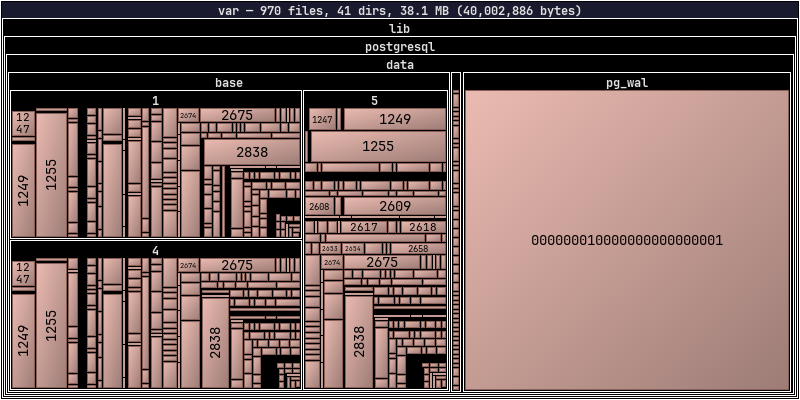
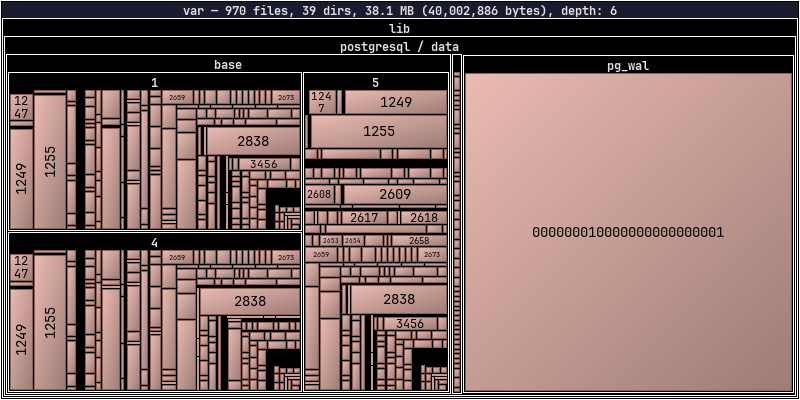
feat: show tree depth in root label, fix depth invariance with breadcrumbs
- scanner: add max_depth() to compute the maximum depth of a node tree
- render/svg_render: include "depth: N" in the root directory label
- main: capture tree depth before apply_breadcrumbs() so the displayed
  depth is the same whether or not breadcrumbs mode is active
- docs: regenerate example images

Changed region(s): [[0.0, 0.09, 1.0, 0.99], [0.2188, 0.0, 0.75, 0.06], [0.6562, 0.57, 0.9062, 0.63]]

diff --git a/src/dirplot/svg_render.py b/src/dirplot/svg_render.py
@@ -9,7 +9,7 @@ import squarify
 
 from dirplot.colors import RGBAColor, assign_colors
 from dirplot.render import _human_bytes, build_metadata
-from dirplot.scanner import Node, collect_extensions, count_nodes
+from dirplot.scanner import Node, collect_extensions, count_nodes, max_depth
 
 _CHAR_ASPECT = 0.6  # approximate width/height ratio for monospace font
 _FONT_FAMILY = "JetBrains Mono, Consolas, monospace"
@@ -556,6 +556,7 @@ def create_treemap_svg(
     colormap: str = "tab20",
     legend: int | None = None,
     cushion: bool = True,
+    tree_depth: int | None = None,
 ) -> io.BytesIO:
     """Render a nested squarified treemap and return it as SVG in a BytesIO buffer.
 
@@ -619,9 +620,10 @@ def create_treemap_svg(
     # 4. Treemap tiles
     n_files, n_dirs = count_nodes(root_node)
     total_bytes = root_node.original_size if root_node.original_size > 0 else root_node.size
+    depth = tree_depth if tree_depth is not None else max_depth(root_node)
     root_label = (
         f"{root_node.name} \u2014 {n_files:,} files, {n_dirs:,} dirs,"
-        f" {_human_bytes(total_bytes)} ({total_bytes:,} bytes)"
+        f" {_human_bytes(total_bytes)} ({total_bytes:,} bytes), depth: {depth}"
     )
     _draw_node_svg(
         d,

diff --git a/src/dirplot/render.py b/src/dirplot/render.py
@@ -14,7 +14,7 @@ import squarify
 from PIL import Image, ImageDraw, ImageFont, PngImagePlugin
 
 from dirplot.colors import RGBAColor, assign_colors
-from dirplot.scanner import Node, collect_extensions, count_nodes
+from dirplot.scanner import Node, collect_extensions, count_nodes, max_depth
 
 DIRPLOT_URL = "https://github.com/deeplook/dirplot"
 
@@ -467,6 +467,7 @@ def create_treemap(
     colormap: str = "tab20",
     legend: int | None = None,
     cushion: bool = True,
+    tree_depth: int | None = None,
 ) -> io.BytesIO:
     """Render a nested squarified treemap and return it as a PNG in a BytesIO buffer.
 
@@ -490,9 +491,10 @@ def create_treemap(
 
     n_files, n_dirs = count_nodes(root_node)
     total_bytes = root_node.original_size if root_node.original_size > 0 else root_node.size
+    depth = tree_depth if tree_depth is not None else max_depth(root_node)
     root_label = (
         f"{root_node.name} \u2014 {n_files:,} files, {n_dirs:,} dirs,"
-        f" {_human_bytes(total_bytes)} ({total_bytes:,} bytes)"
+        f" {_human_bytes(total_bytes)} ({total_bytes:,} bytes), depth: {depth}"
     )
     draw_node(
         idraw,

diff --git a/src/dirplot/main.py b/src/dirplot/main.py
@@ -24,6 +24,7 @@ from dirplot.scanner import (
     build_tree,
     build_tree_multi,
     collect_extensions,
+    max_depth,
     prune_to_subtrees,
 )
 from dirplot.ssh import build_tree_ssh, connect, is_ssh_path, parse_ssh_path
@@ -569,6 +570,8 @@ def main(
     if subtrees:
         root_node = prune_to_subtrees(root_node, set(subtrees))
 
+    tree_depth = max_depth(root_node)
+
     if breadcrumbs:
         root_node = apply_breadcrumbs(root_node)
 
@@ -615,10 +618,12 @@ def main(
     t_render_start = time.monotonic()
     if use_svg:
         buf = create_treemap_svg(
-            root_node, width_px, height_px, font_size, colormap, legend, cushion
+            root_node, width_px, height_px, font_size, colormap, legend, cushion, tree_depth
         )
     else:
-        buf = create_treemap(root_node, width_px, height_px, font_size, colormap, legend, cushion)
+        buf = create_treemap(
+            root_node, width_px, height_px, font_size, colormap, legend, cushion, tree_depth
+        )
     t_render = time.monotonic() - t_render_start
 
     if output is not None:

diff --git a/src/dirplot/scanner.py b/src/dirplot/scanner.py
@@ -208,6 +208,16 @@ def apply_breadcrumbs(node: Node) -> Node:
     return node
 
 
+def max_depth(node: Node) -> int:
+    """Return the maximum depth of the tree rooted at *node*.
+
+    A leaf node (no children) has depth 0.
+    """
+    if not node.children:
+        return 0
+    return 1 + max(max_depth(c) for c in node.children)
+
+
 def collect_extensions(node: Node) -> list[str]:
     """Return a flat list of file extensions under *node*."""
     if not node.is_dir:
